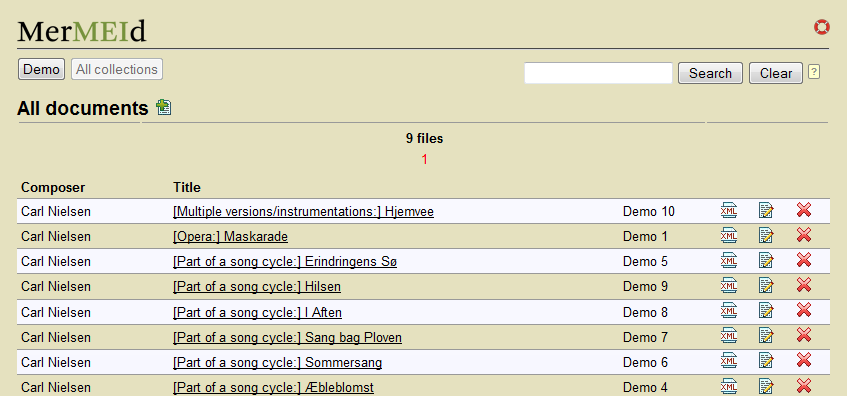
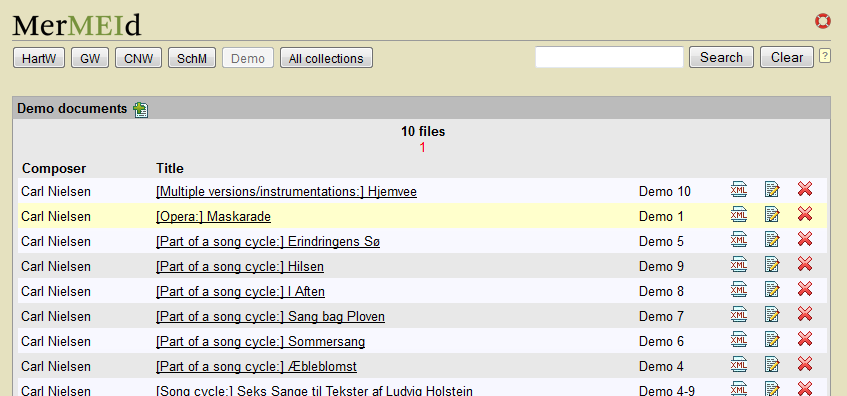
styling list_files a bit
git-svn-id: svn+ssh://code-01.kb.dk/home/svn/repos/xml-store-v2@442 3c7ca1a1-f336-440e-b0c8-27b7de15a481

diff --git a/trunk/mermeid/style/list_style.css b/trunk/mermeid/style/list_style.css
@@ -61,6 +61,11 @@ td {
     border-top: 1px solid #999;
 }
 
+td p 
+{
+    margin: 0;
+}
+
 button {
     padding: 0px;
 }
@@ -82,6 +87,10 @@ td.buttons input, td.buttons img {
 td.buttons input:hover, td.buttons img:hover {
     border: 1px solid #999999;
     padding: 2px;
+}
+
+table.result_table td {
+    padding:3px;
 }
 
 tbody tr.result:hover {

diff --git a/trunk/mermeid/style/front_page.css b/trunk/mermeid/style/front_page.css
@@ -18,7 +18,6 @@ div.footer {
 }
 
 table {
-    width: auto;
     padding:0px;
 }
 
